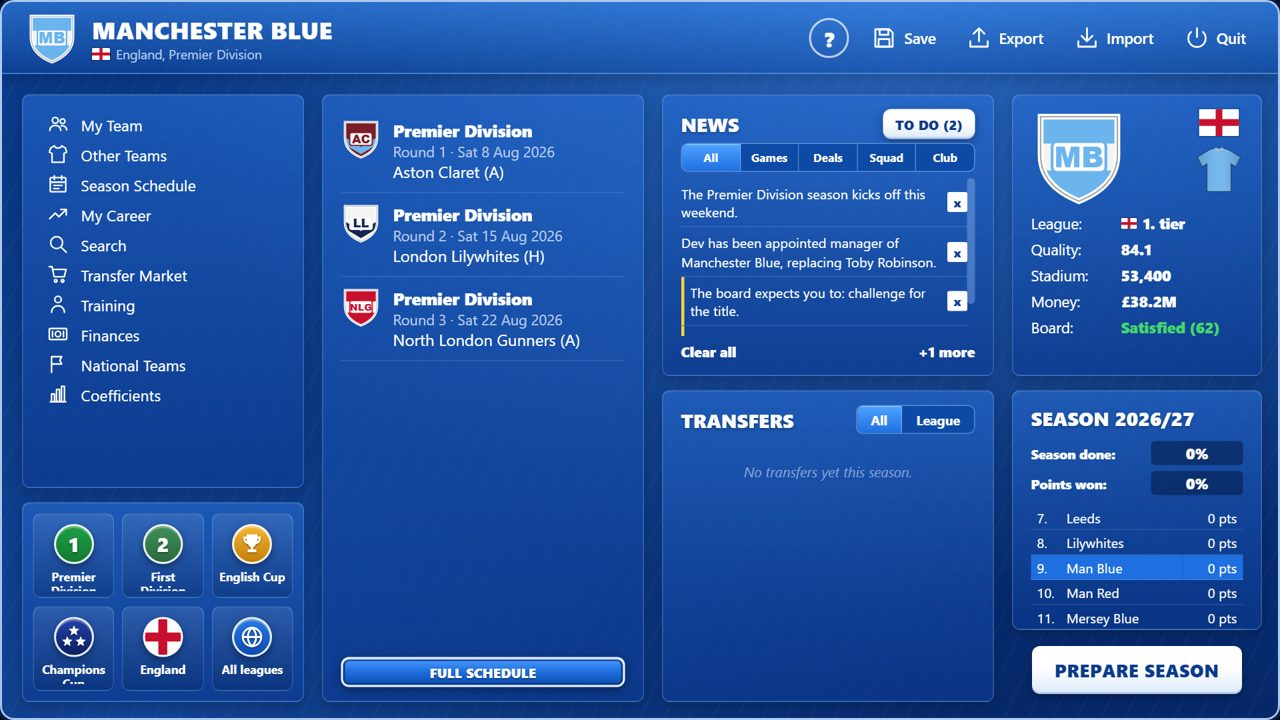
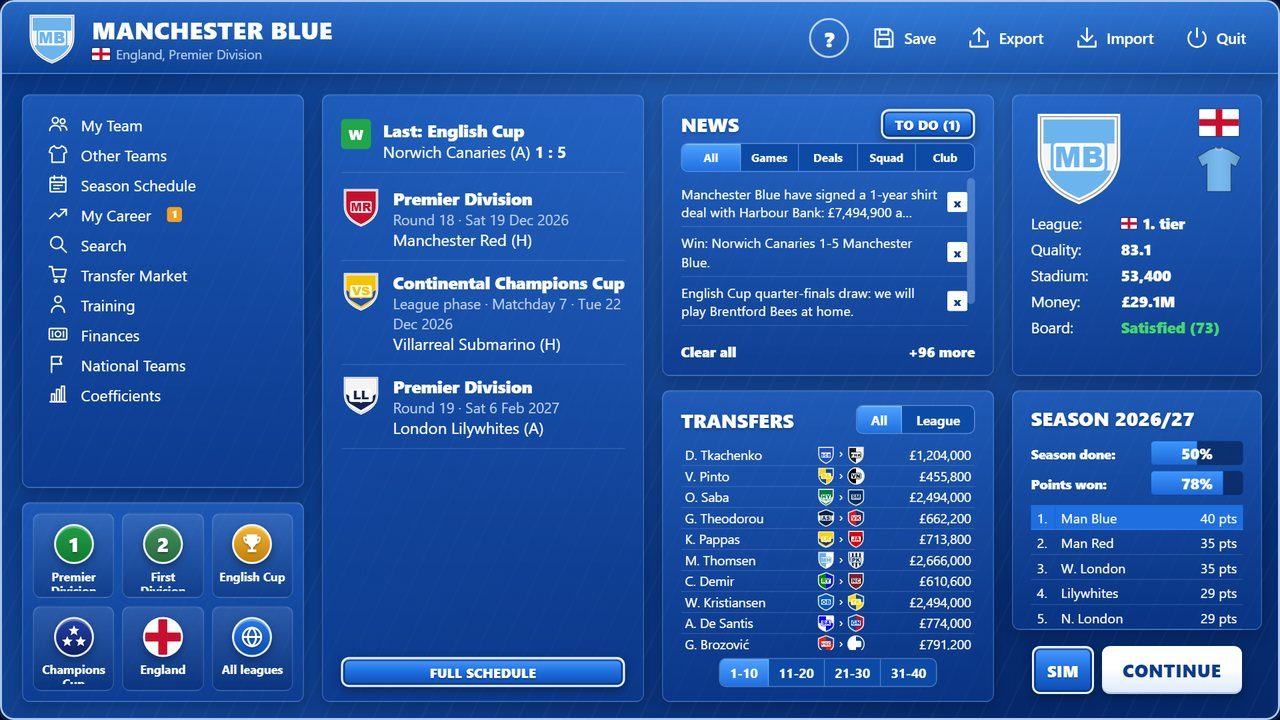
Gameplay video and new screenshots from a mid-season career; privacy note on the embedded YouTube video
Claude-Session: https://claude.ai/code/session_019p7x9bx1eKdYZZQT82GYes

diff --git a/index.html b/index.html
@@ -33,7 +33,10 @@
   .card { background: rgba(13,58,134,.55); border: 1px solid var(--line); border-radius: 12px; padding: 20px; }
   .card h3 { margin: 0 0 6px; font-size: 18px; }
   .card p { margin: 0; color: var(--muted); font-size: 15.5px; }
-  .gallery { display: grid; grid-template-columns: 1fr 1fr; gap: 16px; padding-bottom: 56px; }
+  .gallery { display: grid; grid-template-columns: repeat(3, 1fr); gap: 16px; padding-bottom: 56px; }
+  .video { padding-bottom: 32px; }
+  .video-box { position: relative; aspect-ratio: 16 / 9; border-radius: 14px; overflow: hidden; border: 1px solid var(--line); box-shadow: 0 20px 50px rgba(0,0,0,.45); background: #000; }
+  .video-box iframe { position: absolute; inset: 0; width: 100%; height: 100%; border: 0; }
   .tester { text-align: center; padding: 40px 20px; margin-bottom: 56px; }
   .tester h2 { margin: 0 0 8px; font-size: 28px; }
   footer { border-top: 1px solid rgba(255,255,255,.12); padding: 24px 0 40px; font-size: 14px; color: var(--muted); display: flex; gap: 20px; flex-wrap: wrap; }
@@ -68,7 +71,13 @@
     <div class="card"><h3>🏟 Your club</h3><p>Grow the stadium, training and finances season after season.</p></div>
   </section>
 
+  <section class="video">
+    <div class="video-box"><iframe src="https://www.youtube-nocookie.com/embed/BjCalcmTk0o?rel=0" title="Squadra Manager gameplay"
+      allow="accelerometer; encrypted-media; gyroscope; picture-in-picture" allowfullscreen loading="lazy"></iframe></div>
+  </section>
+
   <section class="gallery">
+    <img class="shot" src="shot-match.jpg" alt="A live match">
     <img class="shot" src="shot-market.jpg" alt="Transfer market">
     <img class="shot" src="shot-nation.jpg" alt="National team page">
   </section>

diff --git a/privacy.html b/privacy.html
@@ -25,6 +25,9 @@
 <h2>Files you import</h2>
 <p>Name or database files you import stay on your device and are only used inside the game.</p>
 
+<h2>Our website</h2>
+<p>squadramanager.com shows a gameplay video from YouTube in privacy-enhanced mode. YouTube only stores data when you play the video, under Google's privacy policy. The website itself uses no cookies or analytics.</p>
+
 <h2>Children</h2>
 <p>The app collects no data from anyone, including children.</p>
 
